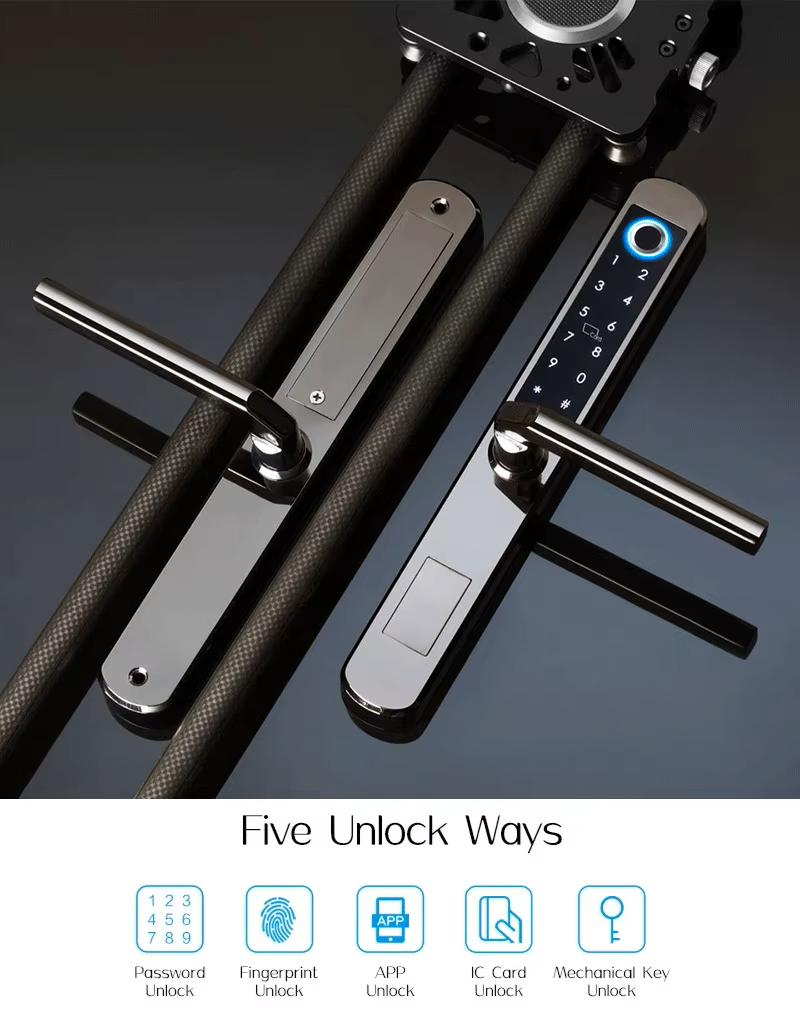
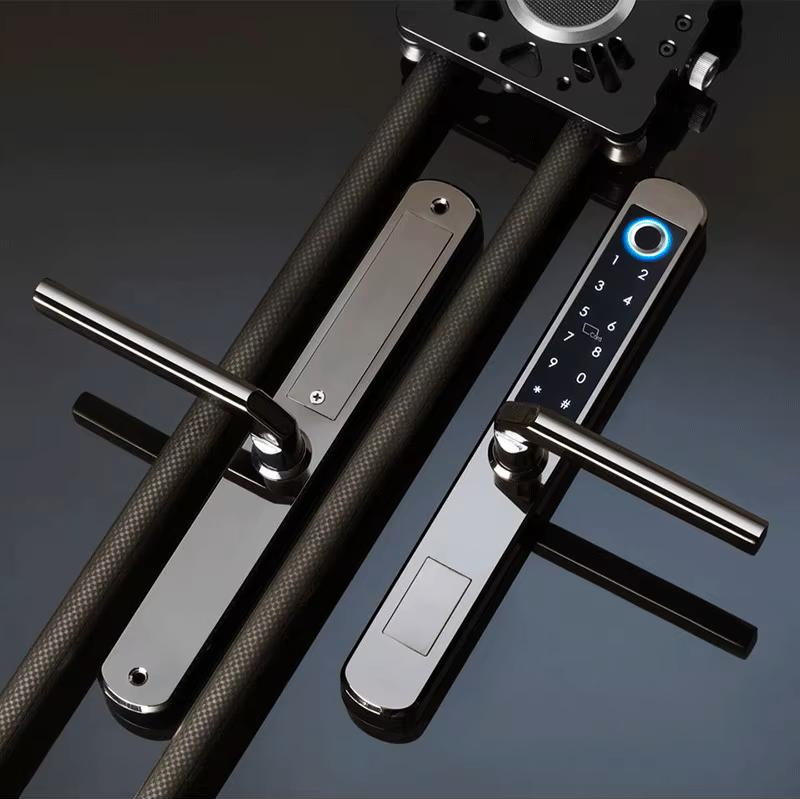
chore: changed some text

diff --git a/js/main.js b/js/main.js
@@ -1,7 +1,7 @@
 "use strict";
 
 const I18N = {
-  ka:{ nav_catalog:"კატალოგი", nav_unlock:"გაღების მეთოდები",
+  ka:{ company_name: "ლოკიტო", nav_catalog:"კატალოგი", nav_unlock:"გაღების მეთოდები",
        nav_how:"როგორ ვმუშაობთ", nav_contact:"კონტაქტი",
        cta_call:"დარეკვა", hero_title:"ჭკვიანი საკეტები და სხვა სისტემები",
        hero_sub:"სრული მომსახურება შეკვეთიდან დაყენებამდე",
@@ -16,11 +16,11 @@ const I18N = {
        p_gw_desc:"გეითვეი დისტანციური მართვისთვის. G3P-ს აქვს PoE.",
        unlock_title:"გაღების 5 მეთოდი", u_pin:"სენსორული პინკოდი", u_finger:"თითის ანაბეჭდი",
        u_app:"აპლიკაცია", u_card:"უკონტაქტო ბარათი", u_key:"მექანიკური გასაღები",
-       how_title:"როგორ ვმუშაობთ", how_1:"შეკვეთა", how_2:"მიწოდება", how_3:"მონტაჟი", how_4:"დაყენება",
+       how_title:"როგორ ვმუშაობთ", how_1:"შეკვეთა", how_2:"მიწოდება", how_3:"მონტაჟი", how_4:"პროგრამული უზრუნველყოფა",
        contact_title:"კონტაქტი", f_name:"სახელი", f_phone:"ტელეფონი", f_submit:"გაგზავნა",
        m_order:"შეკვეთა", m_name:"სახელი", m_phone:"ტელეფონი", m_product:"პროდუქტი",
        footer_rights:"ყველა უფლება დაცულია" },
-  ru:{ nav_catalog:"Каталог", nav_unlock:"Способы открытия",
+  ru:{ company_name: "локито", nav_catalog:"Каталог", nav_unlock:"Способы открытия",
        nav_how:"Как работаем", nav_contact:"Контакты",
        cta_call:"Позвонить", hero_title:"Умные замки и другие системы",
        hero_sub:"Полный сервис от заказа до установки",
@@ -39,7 +39,7 @@ const I18N = {
        contact_title:"Контакты", f_name:"Имя", f_phone:"Телефон", f_submit:"Отправить",
        m_order:"Заявка", m_name:"Имя", m_phone:"Телефон", m_product:"Товар",
        footer_rights:"Все права защищены" },
-  en:{ nav_catalog:"Catalog", nav_unlock:"Unlock methods",
+  en:{ company_name: "lockito", nav_catalog:"Catalog", nav_unlock:"Unlock methods",
        nav_how:"How we work", nav_contact:"Contact",
        cta_call:"Call", hero_title:"Smart locks and other systems",
        hero_sub:"Full service from order to installation",

diff --git a/index.html b/index.html
@@ -10,7 +10,7 @@
 <body>
   <header class="site-header">
     <div class="container header-inner">
-      <a href="#hero" class="brand"><img src="img/logo.png" alt="Lokito" class="brand-logo"><span>ლოკიტო</span></a>
+      <a href="#hero" class="brand"><img src="img/logo.png" alt="Lokito" class="brand-logo"><span data-i18n="company_name"></span></a>
       <nav class="nav" id="nav">
         <a href="#catalog" data-i18n="nav_catalog">კატალოგი</a>
         <a href="#unlock" data-i18n="nav_unlock">გაღების მეთოდები</a>